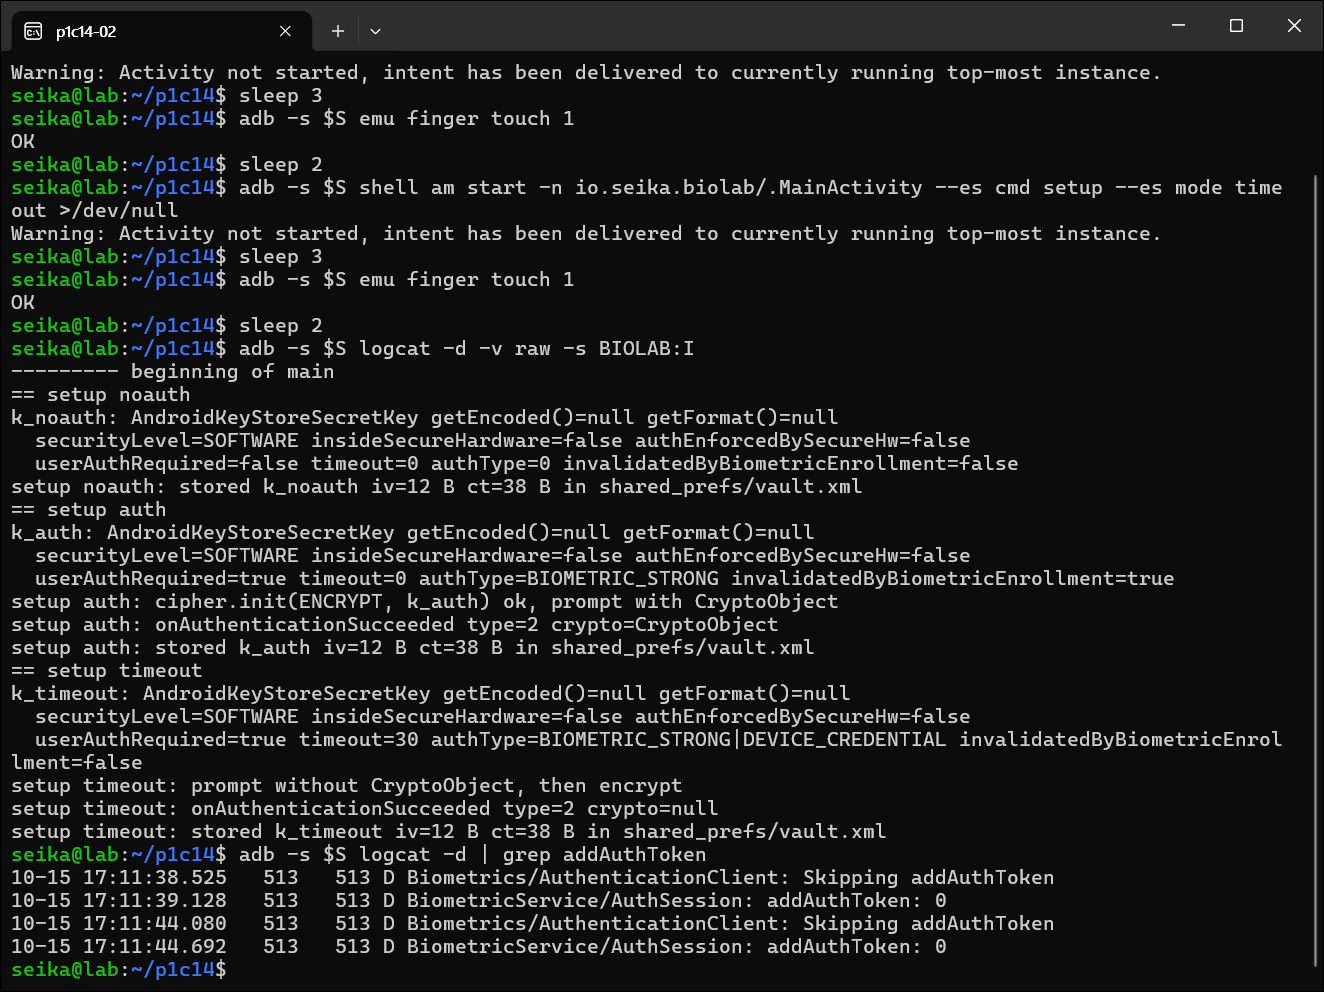
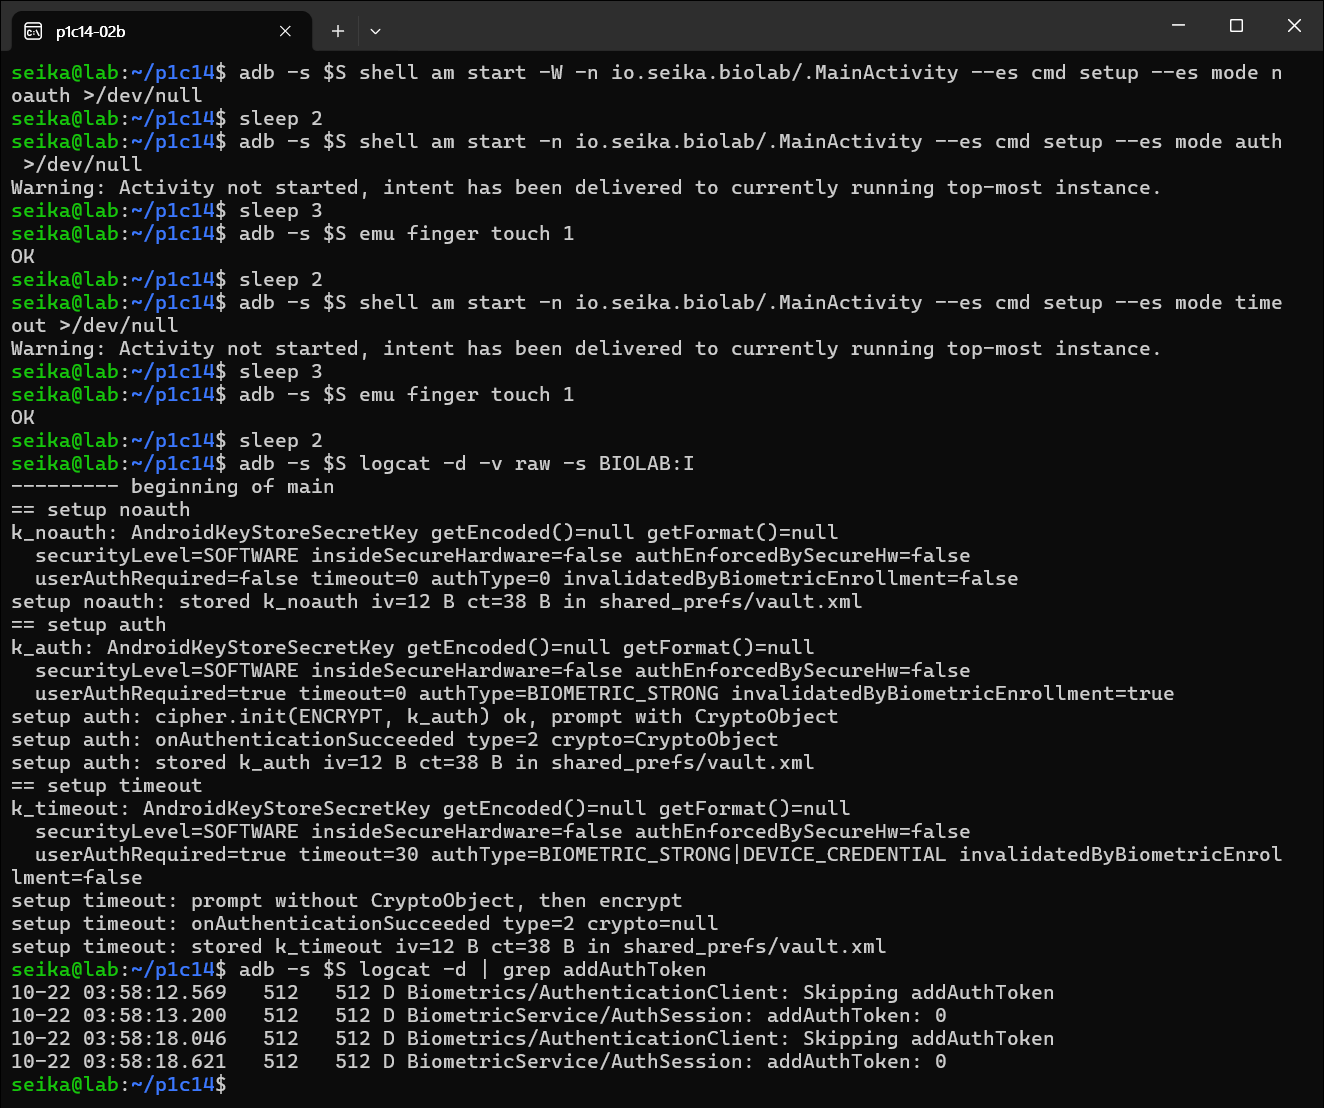
Keystore와 BiometricPrompt — 콜백을 속여도 열리지 않는 키 실측 완성본 공개

diff --git a/_posts/2026-10-29-android-lab-p1c14-keystore-biometricprompt.md b/_posts/2026-10-29-android-lab-p1c14-keystore-biometricprompt.md
@@ -10,7 +10,7 @@ excerpt: "Frida로 지문 없이 onAuthenticationSucceeded를 불러 주자 bool
 
 [지난 글](/posts/android-lab-p1c13-storage-log-clipboard-backup/)에서는 앱이 기기 안에 남기는 값을 누가 읽을 수 있는지 봤다. 이번에는 그 값을 지문 뒤에 숨기는 경우다. 은행 앱이든 메모 앱이든 "지문으로 잠금 해제"는 대개 `BiometricPrompt`를 띄우고 `onAuthenticationSucceeded`가 오면 다음 화면으로 넘어가는 식으로 만든다. 그 콜백을 공격자가 직접 불러 주면 무엇이 열리고 무엇이 안 열리는지, Keystore 키를 어떻게 만들었느냐에 따라 결과가 갈리는 모습을 에뮬레이터에서 확인했다.
 
-실험 기기는 Android 13 에뮬레이터(API 33, google_apis x86_64, userdebug, 빌드 TE1A.240213.009, 보안 패치 2024-03-01)다. 잠금 화면 PIN을 걸고 에뮬레이터 지문을 하나 등록한 뒤 시작했다. 화면에 나오는 `$S`는 에뮬레이터 시리얼이고, Frida는 호스트와 기기 모두 17.17.0이다. AOSP 소스 링크는 `android-13.0.0_r84` 태그로 건다. 앱 쪽 라이브러리는 androidx.biometric 1.1.0이다. 선수 개념은 Atlas의 [Keystore·KeyMint·StrongBox](/posts/android-concept-atlas-c40-keystore-keymint-strongbox/)와 [Gatekeeper·생체 인증](/posts/android-concept-atlas-c41-gatekeeper-weaver-biometrics/), 후킹 기법은 [Frida 실습](/posts/android-lab-p1c08-frida-spawn-attach-java-hook/)에서 다뤘다.
+실험 기기는 Android 13 에뮬레이터(API 33, google_apis x86_64, userdebug, 빌드 TE1A.240213.009, 보안 패치 2024-03-01)다. 잠금 화면 PIN을 걸고 에뮬레이터 지문을 하나 등록한 뒤 시작했다. 화면에 나오는 `$S`는 에뮬레이터 시리얼이고, Frida는 호스트와 기기 모두 17.17.0, 앱 쪽 androidx.biometric은 1.1.0을 썼으며 AOSP 소스 링크는 이 이미지에 맞춰 `android-13.0.0_r84` 태그로 걸었다. 선수 개념은 Atlas의 [Keystore·KeyMint·StrongBox](/posts/android-concept-atlas-c40-keystore-keymint-strongbox/)와 [Gatekeeper·생체 인증](/posts/android-concept-atlas-c41-gatekeeper-weaver-biometrics/), 후킹 기법은 [Frida 실습](/posts/android-lab-p1c08-frida-spawn-attach-java-hook/)에서 다뤘다.
 
 ## 비밀 하나를 여러 방식으로 잠근 실험 앱
 
@@ -85,9 +85,13 @@ AndroGoat는 CryptoObject 없이 `authenticate(PromptInfo)`만 부르고, 키에
 
 인증이 걸린 키는 둘 다 만들어졌고 StrongBox 키는 `StrongBoxUnavailableException`으로 거절됐다. 원인은 `No StrongBox available [numericErrorCode=12]`다. 이 이미지의 KeyMint는 AOSP 기본 구현이고 [`service.cpp` 52행](https://android.googlesource.com/platform/hardware/interfaces/+/refs/tags/android-13.0.0_r84/security/keymint/aidl/default/service.cpp#52)에서 `SecurityLevel::SOFTWARE`로 등록된다. 실제로 뒤에서 찍은 모든 키의 `KeyInfo`가 `securityLevel=SOFTWARE insideSecureHardware=false`였다. 따라서 아래에서 보는 Keystore 동작은 전부 keystore2와 소프트웨어 KeyMint의 동작이다. 실기기의 TEE나 StrongBox가 키를 어떻게 다루는지는 이 환경에서 측정하지 못했다.
 
-지문 쪽은 다르다. goldfish 프레임워크 오버레이가 지문 센서를 `0:2:15`(Strong)로 등록하고([`config.xml` 54행](https://android.googlesource.com/device/generic/goldfish/+/refs/tags/android-13.0.0_r84/overlay/frameworks/base/core/res/res/values/config.xml#54)), goldfish 지문 HAL은 인증 성공 메시지의 HAT에 요청된 operation challenge와 authenticator ID를 담는다([`fingerprint.c` 599행](https://android.googlesource.com/device/generic/goldfish/+/refs/tags/android-13.0.0_r84/fingerprint/fingerprint.c#599)). 그러니 CryptoObject 결속은 실기기와 같은 코드 경로를 탄다. 인증 흐름에서 소프트웨어 KeyMint는 인증 토큰(HAT)의 MAC을 검사하지 않고(`ValidateTokenSignature`가 항상 true, [`soft_keymaster_enforcement.h` 39행](https://android.googlesource.com/platform/system/keymaster/+/refs/tags/android-13.0.0_r84/include/keymaster/km_openssl/soft_keymaster_enforcement.h#39)), 토큰 만료도 스스로 따지지 않는다(`auth_token_timed_out`이 항상 false, [33~36행](https://android.googlesource.com/platform/system/keymaster/+/refs/tags/android-13.0.0_r84/include/keymaster/km_openssl/soft_keymaster_enforcement.h#33)). 이 기기에서 토큰을 걸러 내는 관문은 keystore2의 검사뿐이다. 키 재료가 디스크에 소프트웨어 블롭으로 놓인다는 차이는 뒤의 keystore2 데이터베이스 절에서 따로 본다. 앱 프로세스 안에서 토큰을 위조해 keystore2에 넣는 시도는 이번에 하지 않았다.
+지문 쪽은 다르다. goldfish 프레임워크 오버레이가 지문 센서를 `0:2:15`(Strong)로 등록하고([`config.xml` 54행](https://android.googlesource.com/device/generic/goldfish/+/refs/tags/android-13.0.0_r84/overlay/frameworks/base/core/res/res/values/config.xml#54)), goldfish 지문 HAL은 인증 성공 메시지의 HAT에 요청된 operation challenge와 authenticator ID를 담는다([`fingerprint.c` 599행](https://android.googlesource.com/device/generic/goldfish/+/refs/tags/android-13.0.0_r84/fingerprint/fingerprint.c#599)). 그러니 challenge가 토큰에 실려 keystore2까지 가는 프레임워크 경로는 실기기와 같다. 인증 흐름에서 소프트웨어 KeyMint는 인증 토큰(HAT)의 MAC을 검사하지 않고(`ValidateTokenSignature`가 항상 true, [`soft_keymaster_enforcement.h` 39행](https://android.googlesource.com/platform/system/keymaster/+/refs/tags/android-13.0.0_r84/include/keymaster/km_openssl/soft_keymaster_enforcement.h#39)), 토큰 만료도 스스로 따지지 않는다(`auth_token_timed_out`이 항상 false, [33~36행](https://android.googlesource.com/platform/system/keymaster/+/refs/tags/android-13.0.0_r84/include/keymaster/km_openssl/soft_keymaster_enforcement.h#33)). 그래서 이 기기에서 토큰의 MAC을 확인하는 곳은 없고 만료는 keystore2만 따진다. challenge와 SID가 키와 맞는지는 소프트웨어 KeyMint도 본다([keymaster_enforcement.cpp 494~501행](https://android.googlesource.com/platform/system/keymaster/+/refs/tags/android-13.0.0_r84/android_keymaster/keymaster_enforcement.cpp#494)). 키 재료가 디스크에 소프트웨어 블롭으로 놓인다는 차이는 뒤의 keystore2 데이터베이스 절에서 따로 본다. 앱 프로세스 안에서 토큰을 위조해 keystore2에 넣는 시도는 이번에 하지 않았다.
 
-지문은 키를 만들기 전에 등록해야 했다. `KeyGenParameterSpec.Builder`의 `setInvalidatedByBiometricEnrollment` 기본값이 true라서, 키를 만든 뒤 지문을 새로 등록하면 생체 전용 키는 영구히 무효가 된다. 실측한 `KeyInfo`를 보면 생체 전용인 `k_auth`만 `invalidatedByBiometricEnrollment=true`였고, 기기 자격 증명도 허용한 `k_timeout`은 false였다. 아래 소스에서 보듯 자격 증명을 허용한 키는 지문 ID 대신 gatekeeper의 root SID에 묶이기 때문으로 보인다.
+지문은 키를 만들기 전에 등록해야 했다. `KeyGenParameterSpec.Builder`의 `setInvalidatedByBiometricEnrollment` 기본값이 true라서, 키를 만든 뒤 지문을 새로 등록하면 생체 전용 키는 영구히 무효가 된다. 실측한 `KeyInfo`를 보면 생체 전용인 `k_auth`만 `invalidatedByBiometricEnrollment=true`였고, 기기 자격 증명도 허용한 `k_timeout`은 false였다. `KeyInfo`의 이 값은 인증 타입이 생체 전용이고 SID 목록에 root SID가 없을 때만 true로 계산된다([AndroidKeyStoreSecretKeyFactorySpi.java 233~238행](https://android.googlesource.com/platform/frameworks/base/+/refs/tags/android-13.0.0_r84/keystore/java/android/security/keystore2/AndroidKeyStoreSecretKeyFactorySpi.java#233)). 자격 증명을 허용한 `k_timeout`은 아래 `addSids`에서 보듯 root SID에 묶이므로 false다. 셋업을 새로 부팅한 기기에서 다시 돌려 찍은 화면에 세 키의 `KeyInfo`가 다 나온다.
+
+![biolab setup noauth, auth, timeout을 차례로 실행하고 auth와 timeout 뒤에 adb emu finger touch 1을 보낸 터미널. 세 키 모두 getEncoded()=null getFormat()=null securityLevel=SOFTWARE, k_auth는 timeout=0 authType=BIOMETRIC_STRONG invalidatedByBiometricEnrollment=true, k_timeout은 timeout=30 authType이 BIOMETRIC_STRONG과 DEVICE_CREDENTIAL 조합이고 invalidatedByBiometricEnrollment=false, 각 키 stored iv=12 B ct=38 B, 마지막 grep addAuthToken에 AuthenticationClient: Skipping addAuthToken과 AuthSession: addAuthToken: 0이 두 쌍](/assets/img/android-mastery/p1c14/02b-setup.png)
+
+실제 지문을 두 번 댔으니 `addAuthToken`이 들어간 줄도 두 쌍 남았다.
 
 ## boolean 게이트는 콜백 한 번에 열린다
 
@@ -150,9 +154,11 @@ Java.perform(function () {
 
 ![frida -D $S -p $PID -l bypass.js로 attach한 뒤 unlock bool을 실행한 터미널. hook 로그 authenticate(PromptInfo) "unlock bool": prompt suppressed, onAuthenticationSucceeded(crypto=null), 앱 로그는 unlock bool: UNLOCKED vault-token=seika-4417, logcat에서 grep -c addAuthToken 결과는 0](/assets/img/android-mastery/p1c14/02-bypass-bool.png)
 
-지문을 대지 않았는데 앱은 `onAuthenticationSucceeded type=2 crypto=null`을 받고 `k_noauth`로 비밀을 복호해 `UNLOCKED vault-token=seika-4417`을 찍었다. 이 설계에서 지문은 `if`문 하나를 통과시키는 역할만 하고, 그 `if`를 판정하는 코드가 공격자가 고칠 수 있는 프로세스 안에 있다. 캡처에는 보이지 않지만 실행 직전에 `adb -s $S logcat -c`로 로그를 비웠다. 셋업 때의 실제 인증이 이미 `addAuthToken` 줄을 남겨 두었기 때문이다. 그래서 마지막 줄의 `grep -c addAuthToken` 결과 0은 이번 실행 동안 시스템 생체 인증 서비스가 Keystore에 인증 토큰을 넣는 경로가 한 번도 돌지 않았다는 표시다. 이 줄의 의미는 아래 실제 지문 대조에서 다시 본다.
+캡처에는 보이지 않지만 실행 직전마다 `adb -s $S shell am force-stop io.seika.biolab`로 앱을 내리고 `adb -s $S logcat -c`로 로그를 비웠다. 셋업 때 실제로 댄 지문이 `addAuthToken` 줄을 이미 남겨 두었기 때문이다. 지문을 대지 않았는데 앱은 `onAuthenticationSucceeded type=2 crypto=null`을 받고 `k_noauth`로 비밀을 복호해 `UNLOCKED vault-token=seika-4417`을 찍었다. 이 설계에서 지문은 `if`문 하나를 통과시키는 역할만 하고, 그 `if`를 판정하는 코드가 공격자가 고칠 수 있는 프로세스 안에 있다. 마지막 줄의 `grep -c addAuthToken` 결과 0은 이번 실행 동안 시스템 생체 인증 서비스가 Keystore에 인증 토큰을 넣는 경로가 한 번도 돌지 않았다는 표시다.
 
 AndroGoat에도 같은 스크립트를 붙였다. "BIOMETRIC AUTHENTICATION" 버튼을 누르자 `authenticate(PromptInfo) "Log in using your biometric credential": prompt suppressed`가 찍혔고, 콜백은 `owasp.sat.agoat.BioMetricAuthActivity$onCreate$1`로 잡혔다.
+
+![adb로 owasp.sat.agoat/.BioMetricAuthActivity를 띄우고 pid 7162에 frida -D $S -p $PID -l bypass.js로 attach한 터미널. 5초 뒤 input tap 540 673으로 버튼을 누르자 hook 로그 authenticate(PromptInfo) "Log in using your biometric credential": prompt suppressed, onAuthenticationSucceeded(crypto=null), app callback (from view model): owasp.sat.agoat.BioMetricAuthActivity$onCreate$1, logcat grep -c addAuthToken 결과 0](/assets/img/android-mastery/p1c14/07-androgoat.png)
 
 ![AndroGoat 생체 인증 화면에 Biometric login, Authentication succeeded! 다이얼로그와 OK 버튼이 떠 있고 시스템 지문 인증 시트는 보이지 않는 에뮬레이터 화면](/assets/img/android-mastery/p1c14/07b-androgoat-screen.png)
 
@@ -162,7 +168,7 @@ AndroGoat에도 같은 스크립트를 붙였다. "BIOMETRIC AUTHENTICATION" 버
 
 ## 같은 후킹을 CryptoObject 두 설계에 걸었을 때
 
-이번에는 CryptoObject를 쓰는 두 방식을 같은 훅 아래에서 연달아 실행했다. 둘 다 프롬프트 직전에 `cipher.init(DECRYPT, ...)`를 하고, 콜백에서 돌려받은 Cipher로 `doFinal`을 부른다. 다른 점은 키 하나뿐이다.
+이번에는 CryptoObject를 쓰는 두 방식을 같은 훅 아래에서 연달아 실행했다. 둘 다 프롬프트 직전에 `cipher.init(DECRYPT, ...)`를 하고, 콜백에서 돌려받은 Cipher로 `doFinal`을 부른다. 두 방식은 키만 다르다.
 
 ![같은 bypass.js로 unlock crypto-noauth와 unlock crypto-auth를 연달아 실행한 터미널. crypto-noauth는 UNLOCKED vault-token=seika-4417, crypto-auth는 cipher.init ok 뒤 doFinal FAILED javax.crypto.IllegalBlockSizeException, cause KeyStoreException Key user not authenticated internal Keystore code -26, In get_auth_tokens: No operation auth token received, numericErrorCode=2, addAuthToken 카운트 0](/assets/img/android-mastery/p1c14/03-bypass-crypto.png)
 
@@ -184,7 +190,7 @@ Caused by:
     3: Error::Km(ErrorCode(-26))) [numericErrorCode=2]
 ```
 
-`crypto-noauth`는 CryptoObject를 썼는데도 그냥 열렸다. Cipher를 CryptoObject로 감싼다고 보호가 생기지는 않는다. 그 Cipher의 키가 인증을 요구하지 않으면 keystore2는 아무것도 기다리지 않는다. 막힌 쪽은 매번 인증을 요구하는 `k_auth`뿐이다. 바깥 예외는 `IllegalBlockSizeException`인데 이 이름 자체는 정보가 없다. `AndroidKeyStoreCipherSpiBase.engineDoFinal`이 keystore 오류 코드 가운데 `INVALID_ARGUMENT`와 `VERIFICATION_FAILED`가 아닌 것을 전부 이 타입으로 감싸기 때문이다([604~614행](https://android.googlesource.com/platform/frameworks/base/+/refs/tags/android-13.0.0_r84/keystore/java/android/security/keystore2/AndroidKeyStoreCipherSpiBase.java#604)). 읽어야 할 것은 cause다. KeyMint 오류 -26(`KEY_USER_NOT_AUTHENTICATED`)이고, 자바 쪽 숫자 코드 2는 `KeyStoreException.ERROR_USER_AUTHENTICATION_REQUIRED`다([54행](https://android.googlesource.com/platform/frameworks/base/+/refs/tags/android-13.0.0_r84/keystore/java/android/security/KeyStoreException.java#54)).
+`crypto-noauth`는 CryptoObject를 썼는데도 그냥 열렸다. Cipher를 CryptoObject로 감싼다고 보호가 생기지는 않는다. 그 Cipher의 키가 인증을 요구하지 않으면 keystore2는 아무것도 기다리지 않는다. 막힌 것은 매번 인증을 요구하는 `k_auth` 하나였다. 바깥 예외는 `IllegalBlockSizeException`인데 이 이름 자체는 정보가 없다. `AndroidKeyStoreCipherSpiBase.engineDoFinal`이 keystore 오류 코드 가운데 `INVALID_ARGUMENT`와 `VERIFICATION_FAILED`가 아닌 것을 전부 이 타입으로 감싸기 때문이다([604~614행](https://android.googlesource.com/platform/frameworks/base/+/refs/tags/android-13.0.0_r84/keystore/java/android/security/keystore2/AndroidKeyStoreCipherSpiBase.java#604)). 읽어야 할 것은 cause다. KeyMint 오류 -26(`KEY_USER_NOT_AUTHENTICATED`)이고, 자바 쪽 숫자 코드 2는 `KeyStoreException.ERROR_USER_AUTHENTICATION_REQUIRED`다([54행](https://android.googlesource.com/platform/frameworks/base/+/refs/tags/android-13.0.0_r84/keystore/java/android/security/KeyStoreException.java#54)).
 
 실패 지점도 예상과 달랐다. 소스만 보고는 GCM 복호의 마지막 `finish`에서 터질 거라고 봤는데, 체인은 `KeystoreOperation::update`에서 시작한다. `doFinal`이 내부에서 남은 입력을 먼저 `update`로 흘려 보내고, keystore2는 그 첫 `update`에서 이 operation에 붙을 인증 토큰을 찾는다. 찾는 함수가 [`enforcements.rs` 91~98행의 `get_auth_tokens`](https://android.googlesource.com/platform/system/security/+/refs/tags/android-13.0.0_r84/keystore2/src/enforcements.rs#91)이고, 토큰이 없으면 바로 그 "No operation auth token received" 문맥을 붙여 `KEY_USER_NOT_AUTHENTICATED`를 돌려준다. 같은 시각 기기 logcat에도 `E keystore2: ... In get_auth_tokens: No operation auth token received. ... Error::Km(ErrorCode(-26))`가 남았다.
 
@@ -204,7 +210,7 @@ Caused by:
 
 ![AuthSession.java 744~765행 onDialogDismissed. DISMISSED_REASON_BIOMETRIC_CONFIRMED와 BIOMETRIC_CONFIRM_NOT_REQUIRED 경우에 mTokenEscrow가 있으면 mKeyStore.addAuthToken(mTokenEscrow)를 부르고 Slog.d로 addAuthToken: 결과값을 남긴 뒤 onAuthenticationSucceeded를 전달한다](/assets/img/android-mastery/p1c14/25-src-authsession.png)
 
-시스템 다이얼로그가 생체 확인으로 닫혀야 `mKeyStore.addAuthToken(mTokenEscrow)`가 불리고, 로그의 `addAuthToken: 0`에서 0은 횟수가 아니라 그 호출의 반환값이다. 앱의 `onAuthenticationSucceeded`는 그다음에야 전달된다. 토큰이 먼저 keystore2에 들어가고 콜백이 나중에 오는 순서라서, 콜백만 위조하면 그 앞 단계가 통째로 빠진다. 앞의 두 우회 실행에서 `grep -c addAuthToken`이 0이었던 건 이 두 줄이 하나도 찍히지 않았기 때문이다. 모든 실험이 끝난 뒤 `dumpsys fingerprint`를 열어 봤을 때 accept 2, acceptCrypto 2였다(출력은 저장하지 않았다). 실제로 지문을 댄 네 번, 곧 셋업에서 `k_auth`와 `k_timeout`을 봉인할 때 두 번, 이 `crypto-auth` 대조 한 번, 뒤의 `timeout` 해제 한 번과 맞는 수다. Frida로 위조한 해제는 어느 것도 센서의 accept나 acceptCrypto, `AuthSession`의 `addAuthToken`을 만들지 않았다.
+시스템 다이얼로그가 생체 확인으로 닫혀야 `mKeyStore.addAuthToken(mTokenEscrow)`가 불리고, 로그의 `addAuthToken: 0`에서 0은 횟수가 아니라 그 호출의 반환값이다. 앱의 `onAuthenticationSucceeded`는 그다음에야 전달된다. 토큰이 먼저 keystore2에 들어가고 콜백이 나중에 오는 순서라서, 콜백만 위조하면 그 앞 단계가 통째로 빠진다. 앞의 두 우회 실행에서 `grep -c addAuthToken`이 0이었던 건 이 두 줄이 하나도 찍히지 않았기 때문이다. Frida로 위조한 해제는 어느 것도 `AuthSession`의 `addAuthToken`을 만들지 않았다.
 
 ## 매번 인증 키와 30초 창, 그리고 getEncoded()
 
@@ -220,7 +226,7 @@ Caused by:
 
 ![unlock timeout을 실제 지문으로 연 직후의 probe. unlock timeout: UNLOCKED vault-token=seika-4417 다음에 k_noauth doFinal ok, k_auth는 여전히 doFinal FAILED Key user not authenticated -26, k_timeout은 cipher.init ok와 doFinal ok vault-token=seika-4417](/assets/img/android-mastery/p1c14/05b-window.png)
 
-`k_timeout`은 이번에는 자기 프롬프트 없이 `init`과 `doFinal`을 모두 통과했다. 방금 timeout 해제 때 받은 지문 인증이 30초 동안 이 키에도 유효하기 때문이다. `k_auth`는 같은 순간에도 실패했다. 매번 인증 키는 operation마다 challenge가 달라서 다른 인증을 빌려 쓰지 못한다. 타임아웃 키를 CryptoObject 없이 쓰면 "인증 후 30초 안에 앱 프로세스가 무엇을 하든 키가 열린다"는 뜻이 되고, 그 창 안에서는 Frida로 앱 코드를 마음대로 돌려도 키가 쓰인다.
+`k_timeout`은 이번에는 자기 프롬프트 없이 `init`과 `doFinal`을 모두 통과했다. 방금 timeout 해제 때 받은 지문 인증이 30초 동안 이 키에도 유효했다. `k_auth`는 같은 순간에도 실패했다. 매번 인증 키는 operation마다 challenge가 달라서 다른 인증을 빌려 쓰지 못한다. 타임아웃 키를 CryptoObject 없이 쓰면 "인증 후 30초 안에 앱 프로세스가 무엇을 하든 키가 열린다"는 뜻이 된다. 앱이 프롬프트 없이 키를 쓴 이 probe와 같은 방식이므로, 그 창 안에서 Frida로 앱 코드를 돌려도 키가 쓰일 것이다(직접 돌려 보지는 않았다).
 
 ## 루트로 keystore2 데이터베이스를 열어 보면
 
@@ -238,7 +244,7 @@ Caused by:
 
 ## 생체 인증으로 무언가를 지키려면
 
-실험에서 버틴 설계는 하나뿐이었다. 지킬 동작에 필요한 키를 `setUserAuthenticationRequired(true)`와 `setUserAuthenticationParameters(0, AUTH_BIOMETRIC_STRONG)`로 만들고, 그 키로 초기화한 Cipher(또는 Signature, Mac)를 CryptoObject로 넘기고, 콜백에서 돌려받은 객체로 실제 연산을 하는 설계다. 성공 콜백에서는 돌려받은 객체로 한 연산의 결과만 쓴다. 인증 타입은 Class 3이어야 하고, 자격 증명도 함께 허용하려면 API 30 이상이어야 한다. 타임아웃 키를 쓰면 앞의 probe에서 본 것처럼 30초 창 안에서는 앱 프로세스를 장악한 공격자도 키를 쓴다.
+실험에서 버틴 설계는 하나뿐이었다. 지킬 동작에 필요한 키를 `setUserAuthenticationRequired(true)`와 `setUserAuthenticationParameters(0, AUTH_BIOMETRIC_STRONG)`로 만들고, 그 키로 초기화한 Cipher(또는 Signature, Mac)를 CryptoObject로 넘기고, 콜백에서 돌려받은 객체로 실제 연산을 하는 설계다. 성공 콜백에서는 돌려받은 객체로 한 연산의 결과만 쓴다. 인증 타입은 Class 3이어야 하고, 자격 증명도 함께 허용하려면 API 30 이상이어야 한다. 타임아웃 키를 쓰면 앞의 probe에서 본 것처럼 30초 창 안에서는 앱 코드가 프롬프트 없이 키를 쓰므로, 앱 프로세스를 장악한 공격자도 그 창 안에서는 키를 쓸 수 있을 것이다.
 
 이 키도 막는 범위가 정해져 있다. 이번 실험에서 막힌 것은 "클라이언트 콜백을 위조해 그 키로 하는 암호 연산"이다. 키가 지키는 동작이 서버 API라면 서버가 그 키로 만든 서명이나 그 키로만 풀리는 값을 확인해야 한다. 그러지 않으면 공격자는 키를 건드리지 않고 그다음 단계의 서버 호출을 그냥 보낸다. 서명 키라면 키 증명([Key attestation](/posts/android-concept-atlas-c42-key-attestation/))으로 그 키가 실제로 인증 결속 옵션으로 만들어졌는지도 서버에서 확인할 수 있다. 이 에뮬레이터의 증명은 소프트웨어 증명이라 이번 실험에서는 다루지 않았다.
 
